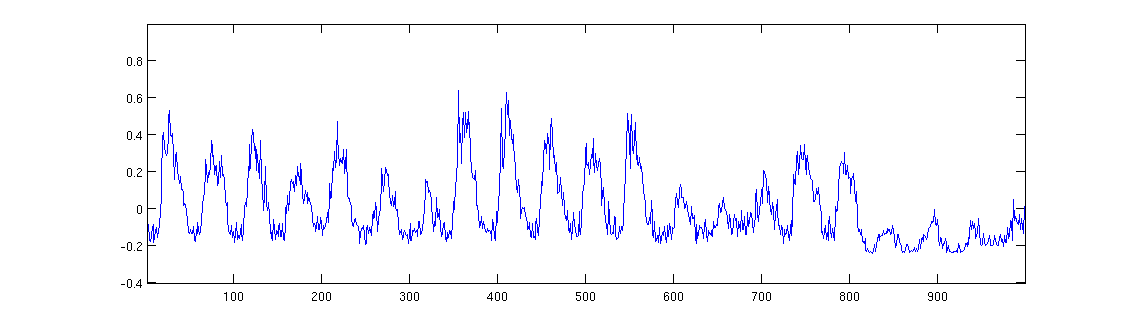
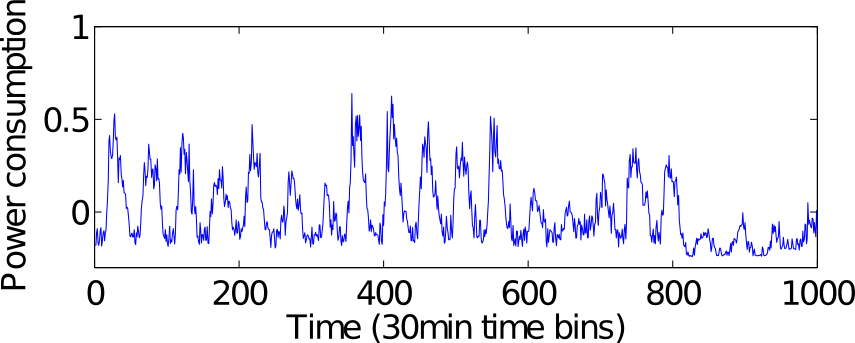
figure's legend

diff --git a/dataset.tex b/dataset.tex
@@ -54,9 +54,10 @@ Running simple correlation across these traces yields high correlation coefficie
 % -- this is not working
 
 \begin{figure}
- \subfigure[EHP trace]{\label{fig:raw_ehp}\includegraphics[width=.45\textwidth]{img/signal25-eps-converted-to}}
- \subfigure[Light trace]{\label{fig:raw_light}\includegraphics[width=.45\textwidth]{img/signal26-eps-converted-to}}
- \subfigure[GHP trace]{\label{fig:raw_ghp}\includegraphics[width=.45\textwidth]{img/signal41-eps-converted-to}}
+\centering
+ \subfigure[EHP trace]{\label{fig:raw_ehp}\includegraphics[width=.45\textwidth]{img/25.png}}
+ \subfigure[Light trace]{\label{fig:raw_light}\includegraphics[width=.45\textwidth]{img/26.png}}
+ \subfigure[GHP trace]{\label{fig:raw_ghp}\includegraphics[width=.45\textwidth]{img/41.png}}
  \caption{Data from three different sensors captured in 2011 from July 4th to July 24th. Data is normalized and aggregated into 30 minutes time bins.}
  \label{fig:raw}
 \end{figure}
